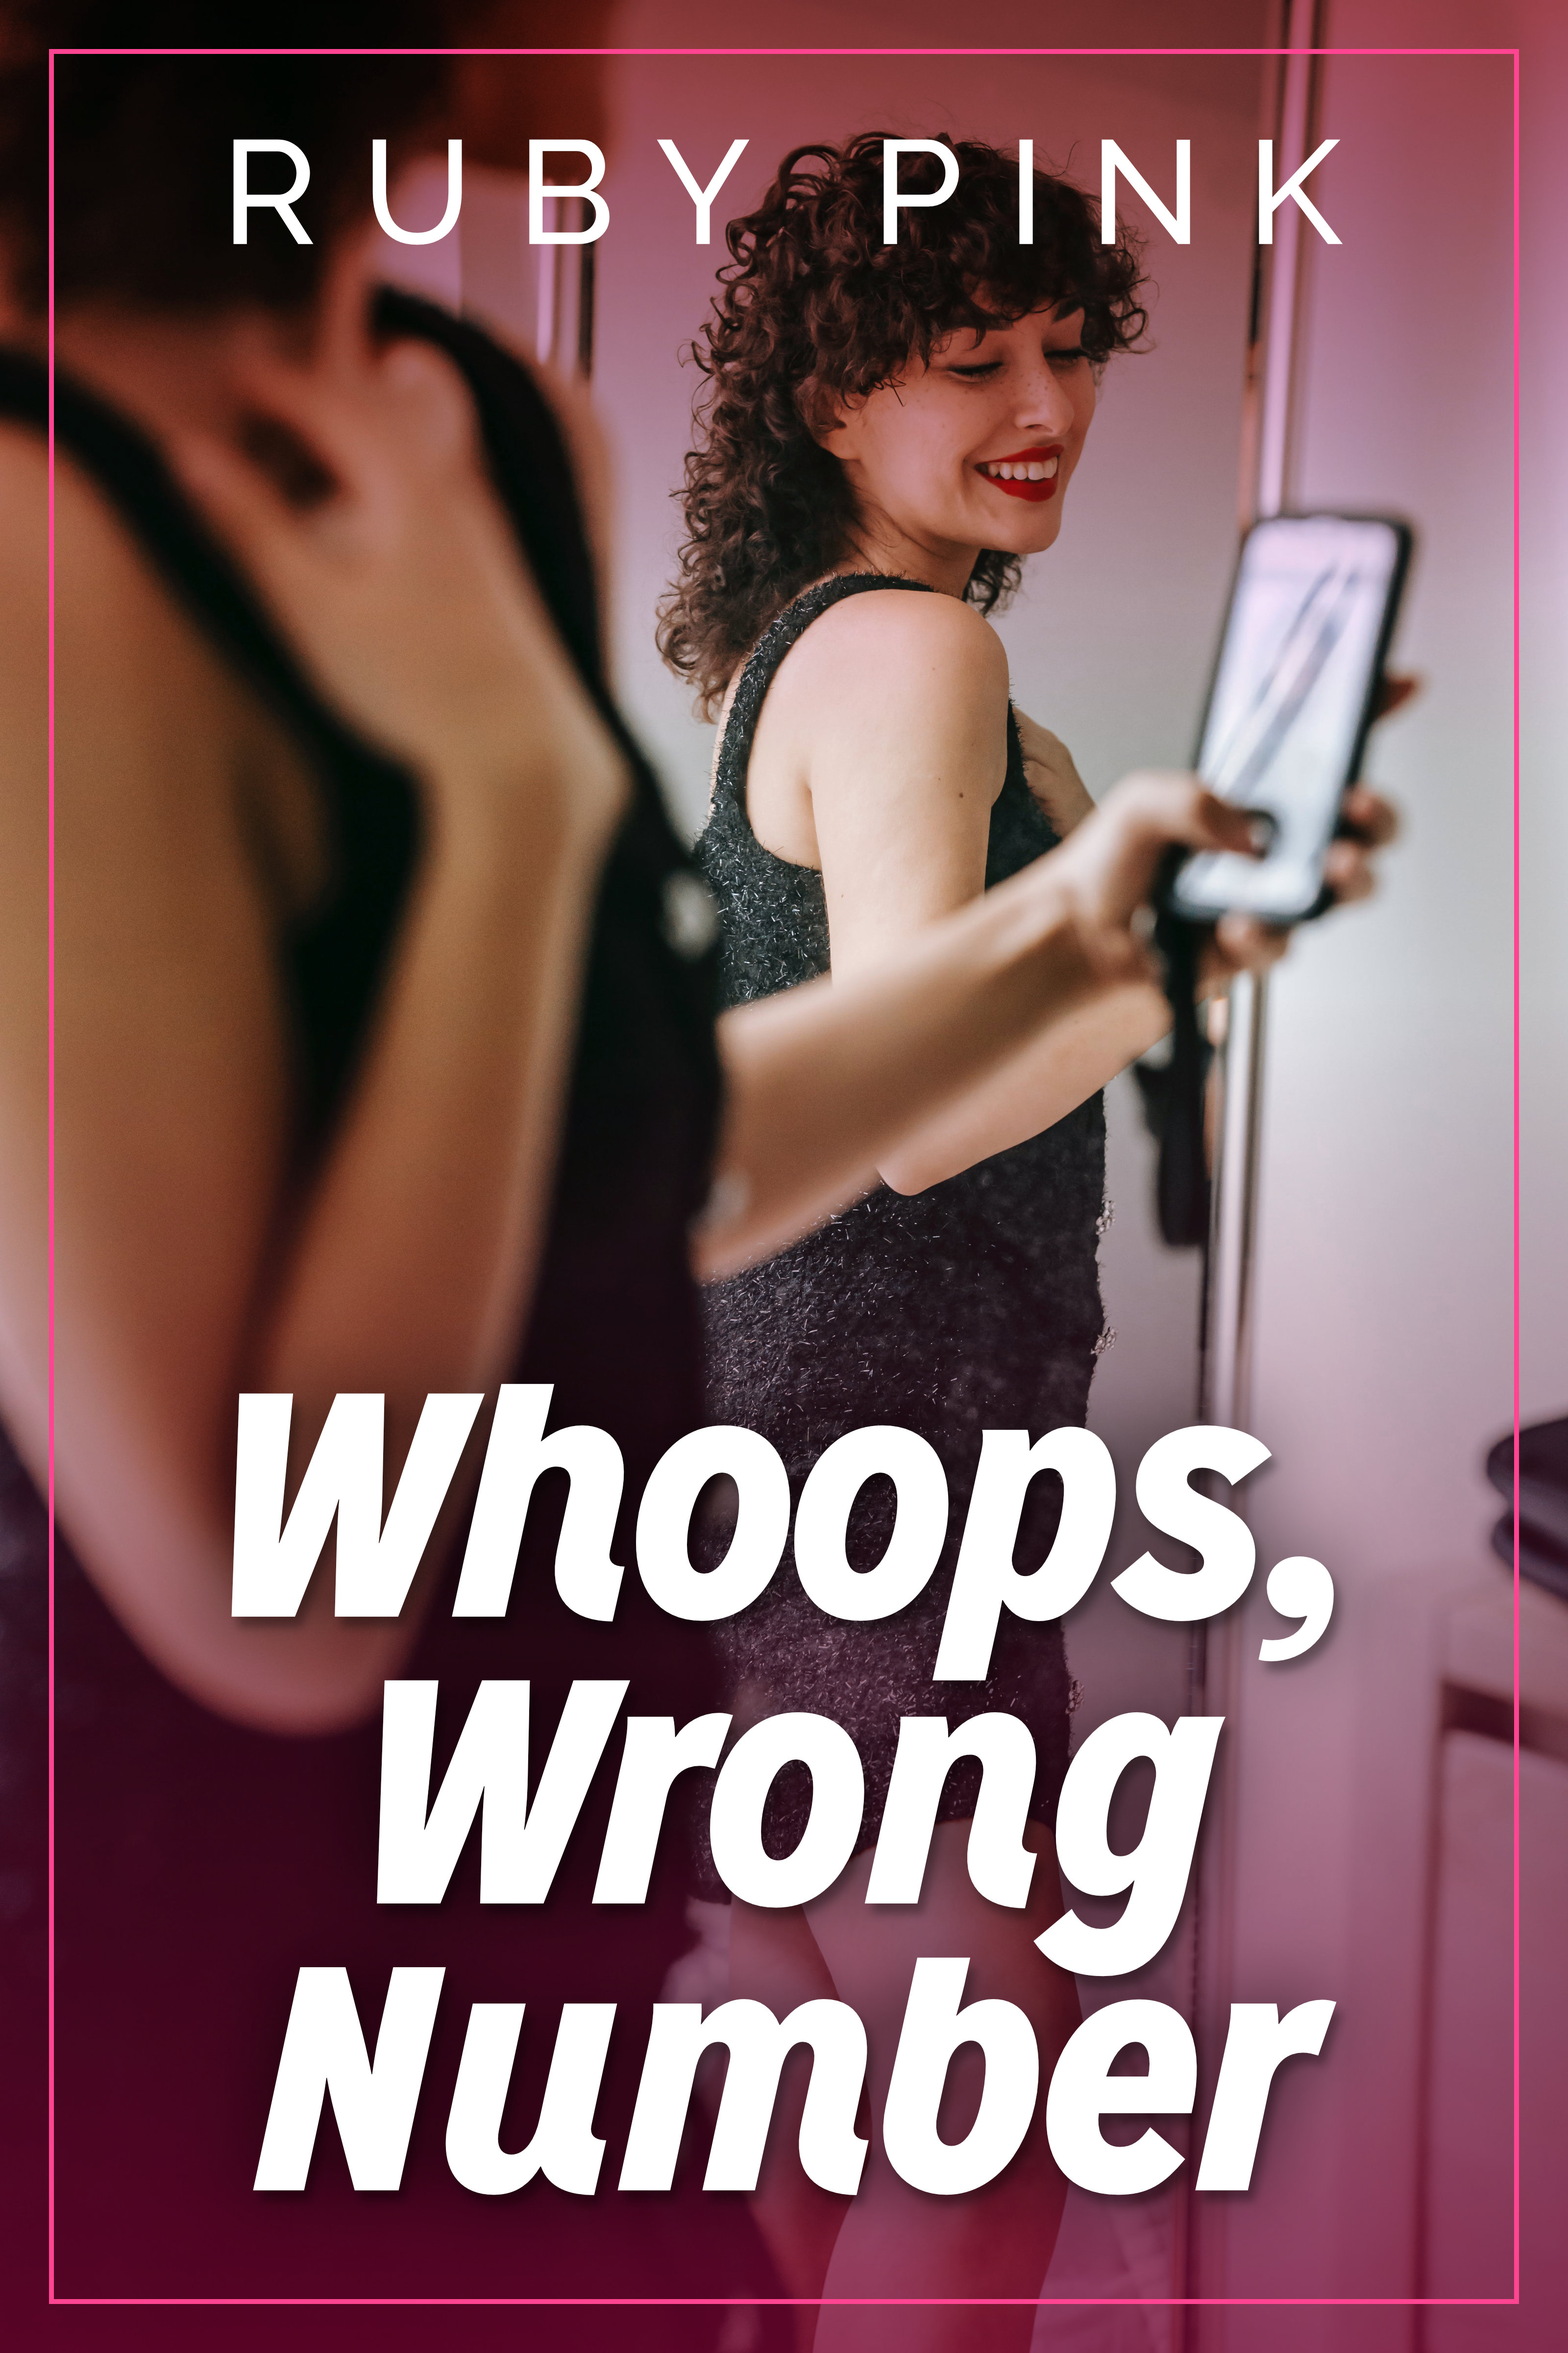
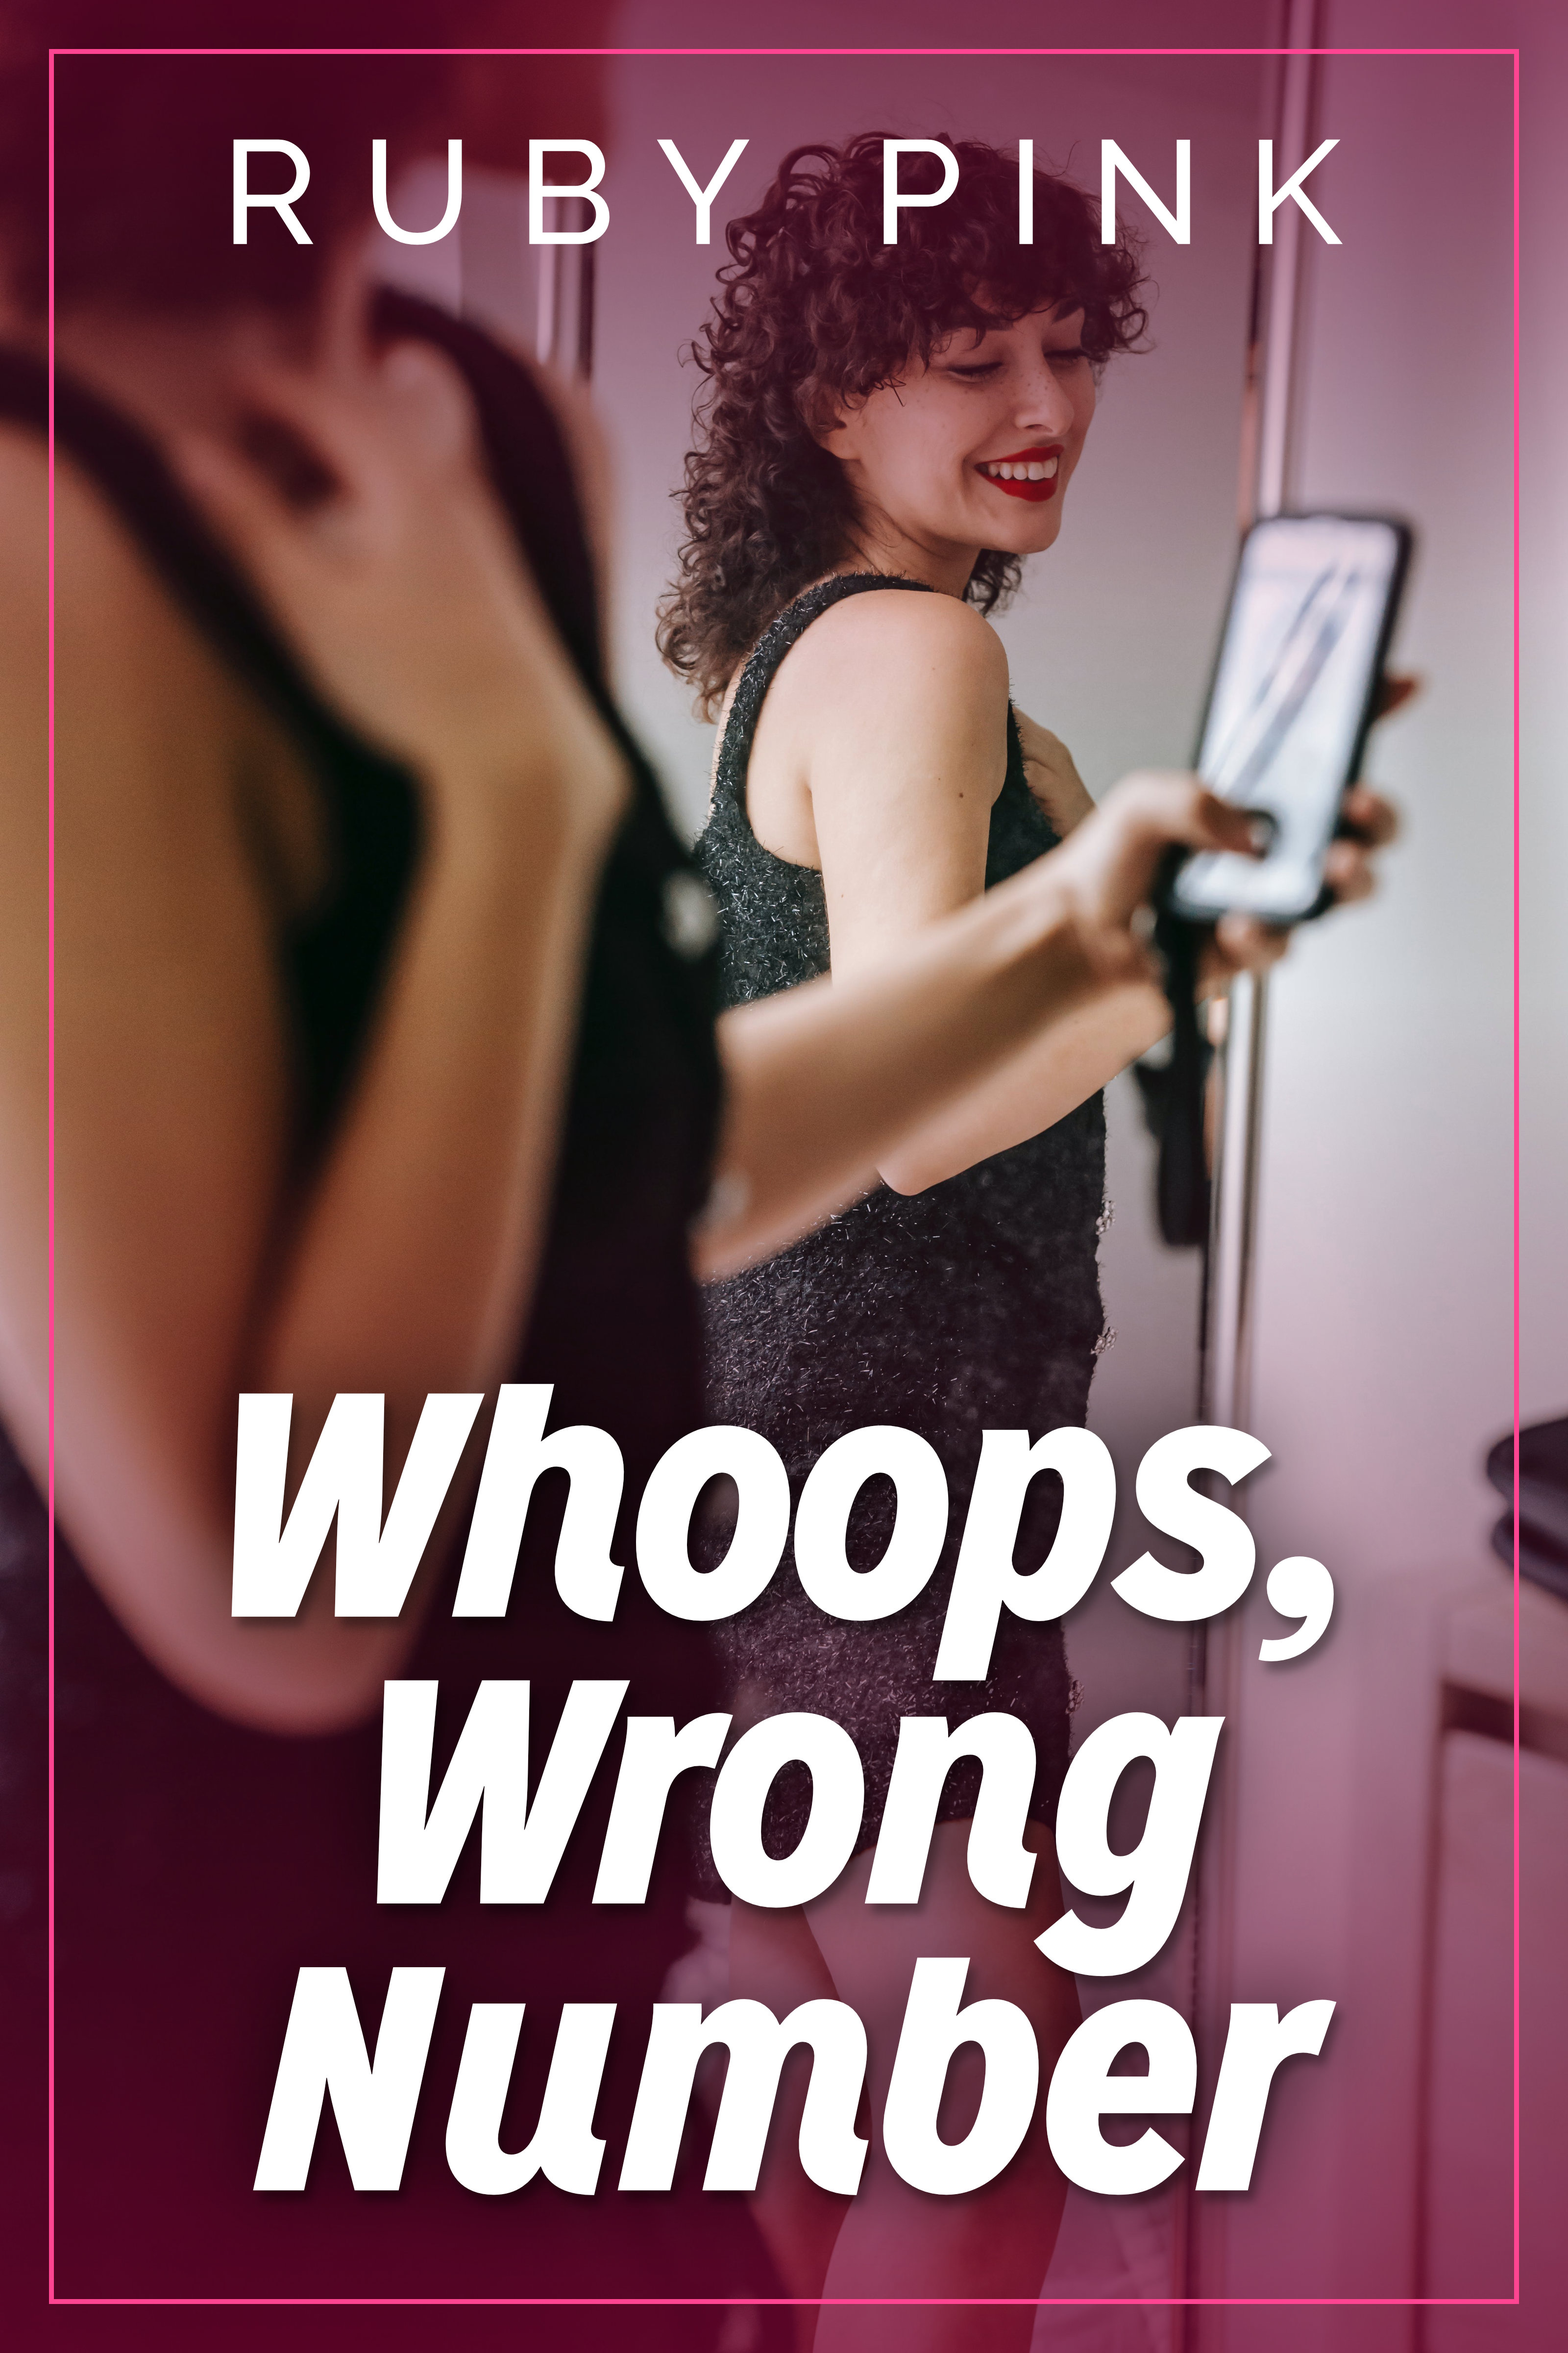
add shower surprise cover

Changed region(s): [[0.0, 0.0, 0.875, 0.2188], [0.9062, 0.0, 0.9688, 0.0312]]

diff --git a/src/shorts/shower-surprise.md b/src/shorts/shower-surprise.md
@@ -15,6 +15,8 @@ tags:
 excerpt: “Oh my god, are you jerking off in here?”
 bundled_in:
   - seven-minutes-in-heaven
+feature_image: 'covers/shower-surprise.jpg'
+social_image: 'social/shower-surprise-social.jpg'
 ---
 
 “Oh my god, are you jerking off in here?”
